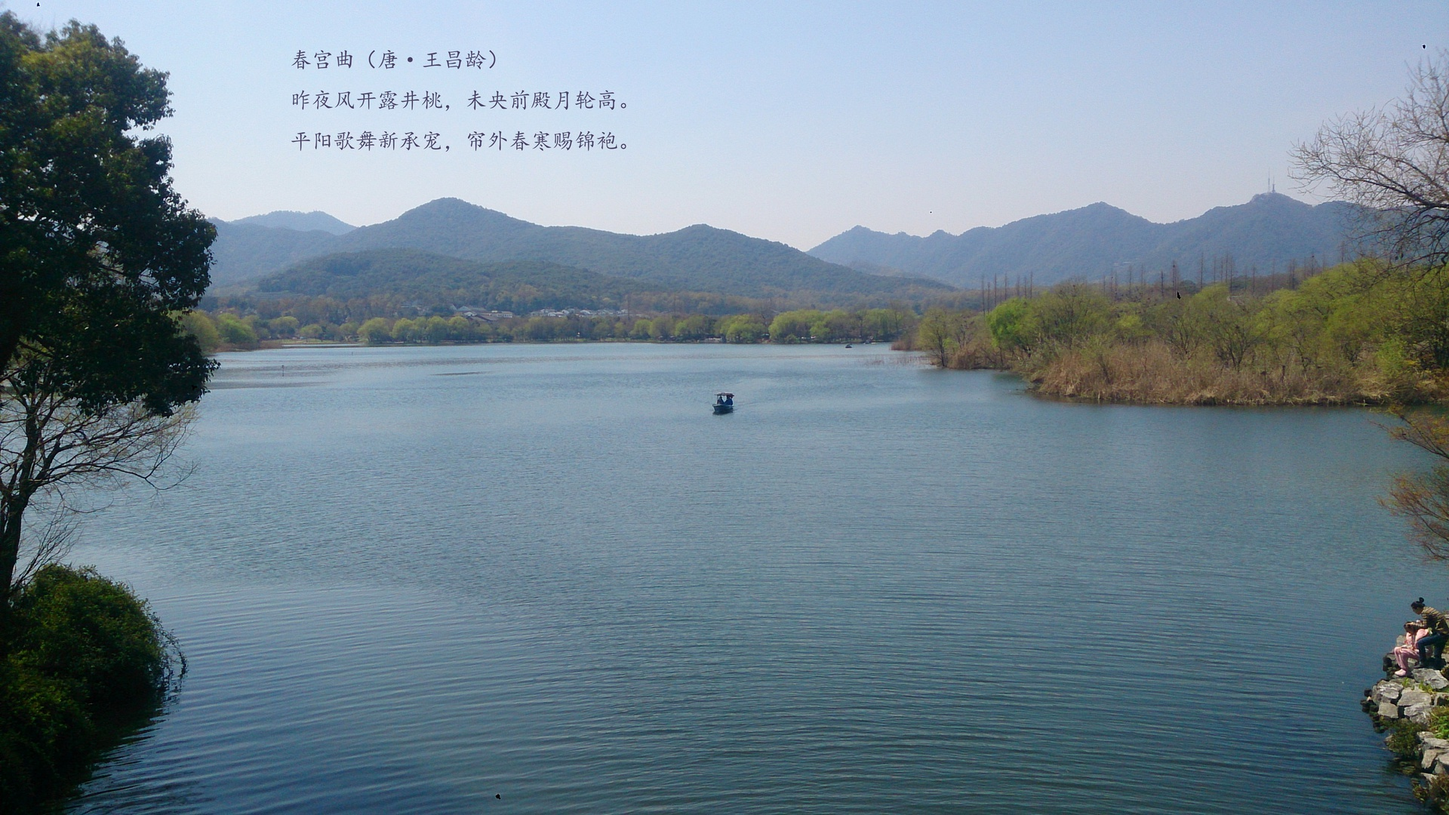
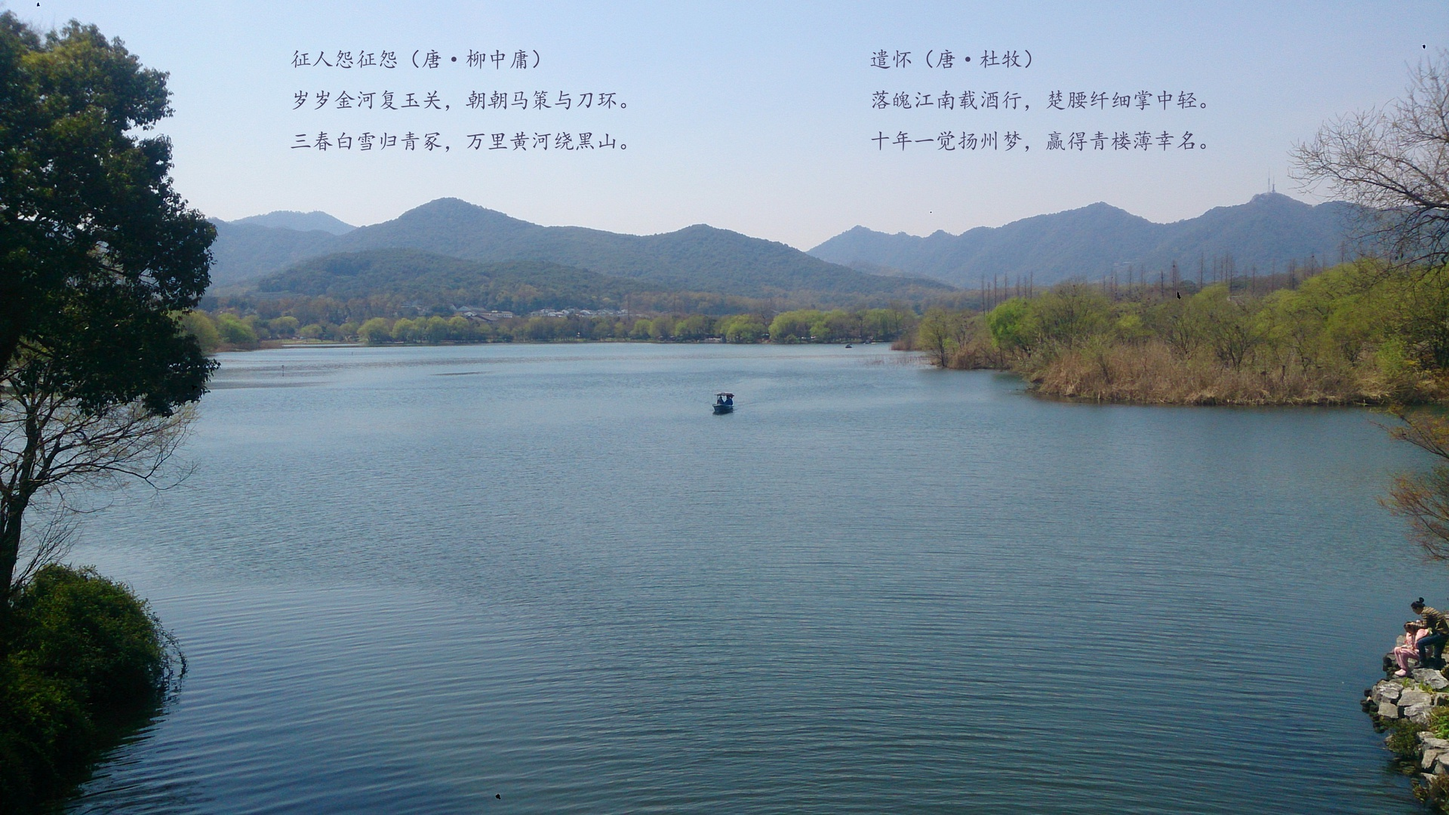
2017-05-02 wallpaper

Changed region(s): [[0.1875, 0.0611, 0.4375, 0.1833], [0.5938, 0.0611, 0.8438, 0.1833], [0.7812, 0.0917, 0.8125, 0.1222]]

diff --git a/en/pages/wallpaper/img_handle.py b/en/pages/wallpaper/img_handle.py
@@ -46,13 +46,15 @@ def gen_text(date=None):
 if __name__ == '__main__':
     # gen text
     text = gen_text()
+    tmrrw = dt.datetime.now() + dt.timedelta(1)
+    tomorrow = gen_text(tmrrw.strftime("%m-%d"))
 
     if not text:
         print("Error: no text!")
         sys.exit(1)
 
     im = Image.open('base.jpg')
-    p_w , p_h = im.size
+    p_w, p_h = im.size
     fontname = os.path.join("fonts", "simkai.ttf")
     # fontsize = 64
     fontsize = 58
@@ -68,6 +70,8 @@ if __name__ == '__main__':
     font = ImageFont.truetype(fontname, fontsize)
     d = ImageDraw.Draw(im)
     d.text((p_w * 0.2, p_h * 0.06), text, fill=text_color, font=font)
+    if tomorrow:
+        d.text((p_w * 0.6, p_h * 0.06), tomorrow, fill=text_color, font=font)
 
     im = im.resize((1920, 1080), Image.ANTIALIAS)
     # im.show()

diff --git a/en/pages/english/grimm/ashputtel.md b/en/pages/english/grimm/ashputtel.md
@@ -1,0 +1,67 @@
+# Ashputtel
+
+The wife of a rich man fell sick; and when she felt that her end drew nigh, she called her only daughter to her bed-side, and said, ‘Always be a good girl, and I will look down from heaven and watch over you.’ Soon afterwards she shut her eyes and died, and was buried in the garden; and the little girl went every day to her grave and wept, and was always good and kind to all about her. And the snow fell and spread a beautiful white covering over the grave; but by the time the spring came, and the sun had melted it away again, her father had married another wife. This new wife had two daughters of her own, that she brought home with her; they were fair in face but foul at heart, and it was now a sorry time for the poor little girl. ‘What does the good-for-nothing want in the parlour?’ said they; ‘they who would eat bread should first earn it; away with the kitchen-maid!’ Then they took away her fine clothes, and gave her an old grey frock to put on, and laughed at her, and turned her into the kitchen.
+
+There she was forced to do hard work; to rise early before daylight, to bring the water, to make the fire, to cook and to wash. Besides that, the sisters plagued her in all sorts of ways, and laughed at her. In the evening when she was tired, she had no bed to lie down on, but was made to lie by the hearth among the ashes; and as this, of course, made her always dusty and dirty, they called her Ashputtel.
+
+It happened once that the father was going to the fair, and asked his wife’s daughters what he should bring them. ‘Fine clothes,’ said the first; ‘Pearls and diamonds,’ cried the second. ‘Now, child,’ said he to his own daughter, ‘what will you have?’ ‘The first twig, dear father, that brushes against your hat when you turn your face to come homewards,’ said she. Then he bought for the first two the fine clothes and pearls and diamonds they had asked for: and on his way home, as he rode through a green copse, a hazel twig brushed against him, and almost pushed off his hat: so he broke it off and brought it away; and when he got home he gave it to his daughter. Then she took it, and went to her mother’s grave and planted it there; and cried so much that it was watered with her tears; and there it grew and became a fine tree. Three times every day she went to it and cried; and soon a little bird came and built its nest upon the tree, and talked with her, and watched over her, and brought her whatever she wished for.
+
+Now it happened that the king of that land held a feast, which was to last three days; and out of those who came to it his son was to choose a bride for himself. Ashputtel’s two sisters were asked to come; so they called her up, and said, ‘Now, comb our hair, brush our shoes, and tie our sashes for us, for we are going to dance at the king’s feast.’ Then she did as she was told; but when all was done she could not help crying, for she thought to herself, she should so have liked to have gone with them to the ball; and at last she begged her mother very hard to let her go. ‘You, Ashputtel!’ said she; ‘you who have nothing to wear, no clothes at all, and who cannot even dance—you want to go to the ball? And when she kept on begging, she said at last, to get rid of her, ‘I will throw this dishful of peas into the ash-heap, and if in two hours’ time you have picked them all out, you shall go to the feast too.’
+
+Then she threw the peas down among the ashes, but the little maiden ran out at the back door into the garden, and cried out:
+
+'Hither, hither, through the sky,  Turtle-doves and linnets, fly!  Blackbird, thrush, and chaffinch gay,  Hither, hither, haste away!  One and all come help me, quick!  Haste ye, haste ye!&mdash;pick, pick, pick!'
+
+Then first came two white doves, flying in at the kitchen window; next came two turtle-doves; and after them came all the little birds under heaven, chirping and fluttering in: and they flew down into the ashes. And the little doves stooped their heads down and set to work, pick, pick, pick; and then the others began to pick, pick, pick: and among them all they soon picked out all the good grain, and put it into a dish but left the ashes. Long before the end of the hour the work was quite done, and all flew out again at the windows.
+
+Then Ashputtel brought the dish to her mother, overjoyed at the thought that now she should go to the ball. But the mother said, ‘No, no! you slut, you have no clothes, and cannot dance; you shall not go.’ And when Ashputtel begged very hard to go, she said, ‘If you can in one hour’s time pick two of those dishes of peas out of the ashes, you shall go too.’ And thus she thought she should at least get rid of her. So she shook two dishes of peas into the ashes.
+
+But the little maiden went out into the garden at the back of the house, and cried out as before:
+
+'Hither, hither, through the sky,  Turtle-doves and linnets, fly!  Blackbird, thrush, and chaffinch gay,  Hither, hither, haste away!  One and all come help me, quick!  Haste ye, haste ye!&mdash;pick, pick, pick!'
+
+Then first came two white doves in at the kitchen window; next came two turtle-doves; and after them came all the little birds under heaven, chirping and hopping about. And they flew down into the ashes; and the little doves put their heads down and set to work, pick, pick, pick; and then the others began pick, pick, pick; and they put all the good grain into the dishes, and left all the ashes. Before half an hour’s time all was done, and out they flew again. And then Ashputtel took the dishes to her mother, rejoicing to think that she should now go to the ball. But her mother said, ‘It is all of no use, you cannot go; you have no clothes, and cannot dance, and you would only put us to shame’: and off she went with her two daughters to the ball.
+
+Now when all were gone, and nobody left at home, Ashputtel went sorrowfully and sat down under the hazel-tree, and cried out:
+
+'Shake, shake, hazel-tree,  Gold and silver over me!'
+
+Then her friend the bird flew out of the tree, and brought a gold and silver dress for her, and slippers of spangled silk; and she put them on, and followed her sisters to the feast. But they did not know her, and thought it must be some strange princess, she looked so fine and beautiful in her rich clothes; and they never once thought of Ashputtel, taking it for granted that she was safe at home in the dirt.
+
+The king’s son soon came up to her, and took her by the hand and danced with her, and no one else: and he never left her hand; but when anyone else came to ask her to dance, he said, ‘This lady is dancing with me.’
+
+Thus they danced till a late hour of the night; and then she wanted to go home: and the king’s son said, ‘I shall go and take care of you to your home’; for he wanted to see where the beautiful maiden lived. But she slipped away from him, unawares, and ran off towards home; and as the prince followed her, she jumped up into the pigeon-house and shut the door. Then he waited till her father came home, and told him that the unknown maiden, who had been at the feast, had hid herself in the pigeon-house. But when they had broken open the door they found no one within; and as they came back into the house, Ashputtel was lying, as she always did, in her dirty frock by the ashes, and her dim little lamp was burning in the chimney. For she had run as quickly as she could through the pigeon-house and on to the hazel-tree, and had there taken off her beautiful clothes, and put them beneath the tree, that the bird might carry them away, and had lain down again amid the ashes in her little grey frock.
+
+The next day when the feast was again held, and her father, mother, and sisters were gone, Ashputtel went to the hazel-tree, and said:
+
+'Shake, shake, hazel-tree,  Gold and silver over me!'
+
+And the bird came and brought a still finer dress than the one she had worn the day before. And when she came in it to the ball, everyone wondered at her beauty: but the king’s son, who was waiting for her, took her by the hand, and danced with her; and when anyone asked her to dance, he said as before, ‘This lady is dancing with me.’
+
+When night came she wanted to go home; and the king’s son followed here as before, that he might see into what house she went: but she sprang away from him all at once into the garden behind her father’s house. In this garden stood a fine large pear-tree full of ripe fruit; and Ashputtel, not knowing where to hide herself, jumped up into it without being seen. Then the king’s son lost sight of her, and could not find out where she was gone, but waited till her father came home, and said to him, ‘The unknown lady who danced with me has slipped away, and I think she must have sprung into the pear-tree.’ The father thought to himself, ‘Can it be Ashputtel?’ So he had an axe brought; and they cut down the tree, but found no one upon it. And when they came back into the kitchen, there lay Ashputtel among the ashes; for she had slipped down on the other side of the tree, and carried her beautiful clothes back to the bird at the hazel-tree, and then put on her little grey frock.
+
+The third day, when her father and mother and sisters were gone, she went again into the garden, and said:
+
+'Shake, shake, hazel-tree,  Gold and silver over me!'
+
+Then her kind friend the bird brought a dress still finer than the former one, and slippers which were all of gold: so that when she came to the feast no one knew what to say, for wonder at her beauty: and the king’s son danced with nobody but her; and when anyone else asked her to dance, he said, ‘This lady is /my/ partner, sir.’
+
+When night came she wanted to go home; and the king’s son would go with her, and said to himself, ‘I will not lose her this time’; but, however, she again slipped away from him, though in such a hurry that she dropped her left golden slipper upon the stairs.
+
+The prince took the shoe, and went the next day to the king his father, and said, ‘I will take for my wife the lady that this golden slipper fits.’ Then both the sisters were overjoyed to hear it; for they had beautiful feet, and had no doubt that they could wear the golden slipper. The eldest went first into the room where the slipper was, and wanted to try it on, and the mother stood by. But her great toe could not go into it, and the shoe was altogether much too small for her. Then the mother gave her a knife, and said, ‘Never mind, cut it off; when you are queen you will not care about toes; you will not want to walk.’ So the silly girl cut off her great toe, and thus squeezed on the shoe, and went to the king’s son. Then he took her for his bride, and set her beside him on his horse, and rode away with her homewards.
+
+But on their way home they had to pass by the hazel-tree that Ashputtel had planted; and on the branch sat a little dove singing:
+
+'Back again! back again! look to the shoe!  The shoe is too small, and not made for you!  Prince! prince! look again for thy bride,  For she's not the true one that sits by thy side.'
+
+Then the prince got down and looked at her foot; and he saw, by the blood that streamed from it, what a trick she had played him. So he turned his horse round, and brought the false bride back to her home, and said, ‘This is not the right bride; let the other sister try and put on the slipper.’ Then she went into the room and got her foot into the shoe, all but the heel, which was too large. But her mother squeezed it in till the blood came, and took her to the king’s son: and he set her as his bride by his side on his horse, and rode away with her.
+
+But when they came to the hazel-tree the little dove sat there still, and sang:
+
+'Back again! back again! look to the shoe!  The shoe is too small, and not made for you!  Prince! prince! look again for thy bride,  For she's not the true one that sits by thy side.'
+
+Then he looked down, and saw that the blood streamed so much from the shoe, that her white stockings were quite red. So he turned his horse and brought her also back again. ‘This is not the true bride,’ said he to the father; ‘have you no other daughters?’ ‘No,’ said he; ‘there is only a little dirty Ashputtel here, the child of my first wife; I am sure she cannot be the bride.’ The prince told him to send her. But the mother said, ‘No, no, she is much too dirty; she will not dare to show herself.’ However, the prince would have her come; and she first washed her face and hands, and then went in and curtsied to him, and he reached her the golden slipper. Then she took her clumsy shoe off her left foot, and put on the golden slipper; and it fitted her as if it had been made for her. And when he drew near and looked at her face he knew her, and said, ‘This is the right bride.’ But the mother and both the sisters were frightened, and turned pale with anger as he took Ashputtel on his horse, and rode away with her. And when they came to the hazel-tree, the white dove sang:
+
+'Home! home! look at the shoe!  Princess! the shoe was made for you!  Prince! prince! take home thy bride,  For she is the true one that sits by thy side!'
+
+And when the dove had done its song, it came flying, and perched upon her right shoulder, and so went home with her.

diff --git a/en/pages/english/grimm/the-white-snake.md b/en/pages/english/grimm/the-white-snake.md
@@ -1,0 +1,27 @@
+# The White Snake
+
+A long time ago there lived a king who was famed for his wisdom through all the land. Nothing was hidden from him, and it seemed as if news of the most secret things was brought to him through the air. But he had a strange custom; every day after dinner, when the table was cleared, and no one else was present, a trusty servant had to bring him one more dish. It was covered, however, and even the servant did not know what was in it, neither did anyone know, for the king never took off the cover to eat of it until he was quite alone.
+
+This had gone on for a long time, when one day the servant, who took away the dish, was overcome with such curiosity that he could not help carrying the dish into his room. When he had carefully locked the door, he lifted up the cover, and saw a white snake lying on the dish. But when he saw it he could not deny himself the pleasure of tasting it, so he cut of a little bit and put it into his mouth. No sooner had it touched his tongue than he heard a strange whispering of little voices outside his window. He went and listened, and then noticed that it was the sparrows who were chattering together, and telling one another of all kinds of things which they had seen in the fields and woods. Eating the snake had given him power of understanding the language of animals.
+
+Now it so happened that on this very day the queen lost her most beautiful ring, and suspicion of having stolen it fell upon this trusty servant, who was allowed to go everywhere. The king ordered the man to be brought before him, and threatened with angry words that unless he could before the morrow point out the thief, he himself should be looked upon as guilty and executed. In vain he declared his innocence; he was dismissed with no better answer.
+
+In his trouble and fear he went down into the courtyard and took thought how to help himself out of his trouble. Now some ducks were sitting together quietly by a brook and taking their rest; and, whilst they were making their feathers smooth with their bills, they were having a confidential conversation together. The servant stood by and listened. They were telling one another of all the places where they had been waddling about all the morning, and what good food they had found; and one said in a pitiful tone: ‘Something lies heavy on my stomach; as I was eating in haste I swallowed a ring which lay under the queen’s window.’ The servant at once seized her by the neck, carried her to the kitchen, and said to the cook: ‘Here is a fine duck; pray, kill her.’ ‘Yes,’ said the cook, and weighed her in his hand; ‘she has spared no trouble to fatten herself, and has been waiting to be roasted long enough.’ So he cut off her head, and as she was being dressed for the spit, the queen’s ring was found inside her.
+
+The servant could now easily prove his innocence; and the king, to make amends for the wrong, allowed him to ask a favour, and promised him the best place in the court that he could wish for. The servant refused everything, and only asked for a horse and some money for travelling, as he had a mind to see the world and go about a little. When his request was granted he set out on his way, and one day came to a pond, where he saw three fishes caught in the reeds and gasping for water. Now, though it is said that fishes are dumb, he heard them lamenting that they must perish so miserably, and, as he had a kind heart, he got off his horse and put the three prisoners back into the water. They leapt with delight, put out their heads, and cried to him: ‘We will remember you and repay you for saving us!’
+
+He rode on, and after a while it seemed to him that he heard a voice in the sand at his feet. He listened, and heard an ant-king complain: ‘Why cannot folks, with their clumsy beasts, keep off our bodies? That stupid horse, with his heavy hoofs, has been treading down my people without mercy!’ So he turned on to a side path and the ant-king cried out to him: ‘We will remember you—one good turn deserves another!’
+
+The path led him into a wood, and there he saw two old ravens standing by their nest, and throwing out their young ones. ‘Out with you, you idle, good-for-nothing creatures!’ cried they; ‘we cannot find food for you any longer; you are big enough, and can provide for yourselves.’ But the poor young ravens lay upon the ground, flapping their wings, and crying: ‘Oh, what helpless chicks we are! We must shift for ourselves, and yet we cannot fly! What can we do, but lie here and starve?’ So the good young fellow alighted and killed his horse with his sword, and gave it to them for food. Then they came hopping up to it, satisfied their hunger, and cried: ‘We will remember you—one good turn deserves another!’
+
+And now he had to use his own legs, and when he had walked a long way, he came to a large city. There was a great noise and crowd in the streets, and a man rode up on horseback, crying aloud: ‘The king’s daughter wants a husband; but whoever seeks her hand must perform a hard task, and if he does not succeed he will forfeit his life.’ Many had already made the attempt, but in vain; nevertheless when the youth saw the king’s daughter he was so overcome by her great beauty that he forgot all danger, went before the king, and declared himself a suitor.
+
+So he was led out to the sea, and a gold ring was thrown into it, before his eyes; then the king ordered him to fetch this ring up from the bottom of the sea, and added: ‘If you come up again without it you will be thrown in again and again until you perish amid the waves.’ All the people grieved for the handsome youth; then they went away, leaving him alone by the sea.
+
+He stood on the shore and considered what he should do, when suddenly he saw three fishes come swimming towards him, and they were the very fishes whose lives he had saved. The one in the middle held a mussel in its mouth, which it laid on the shore at the youth’s feet, and when he had taken it up and opened it, there lay the gold ring in the shell. Full of joy he took it to the king and expected that he would grant him the promised reward.
+
+But when the proud princess perceived that he was not her equal in birth, she scorned him, and required him first to perform another task. She went down into the garden and strewed with her own hands ten sacksful of millet-seed on the grass; then she said: ‘Tomorrow morning before sunrise these must be picked up, and not a single grain be wanting.’
+
+The youth sat down in the garden and considered how it might be possible to perform this task, but he could think of nothing, and there he sat sorrowfully awaiting the break of day, when he should be led to death. But as soon as the first rays of the sun shone into the garden he saw all the ten sacks standing side by side, quite full, and not a single grain was missing. The ant-king had come in the night with thousands and thousands of ants, and the grateful creatures had by great industry picked up all the millet-seed and gathered them into the sacks.
+
+Presently the king’s daughter herself came down into the garden, and was amazed to see that the young man had done the task she had given him. But she could not yet conquer her proud heart, and said: ‘Although he has performed both the tasks, he shall not be my husband until he had brought me an apple from the Tree of Life.’ The youth did not know where the Tree of Life stood, but he set out, and would have gone on for ever, as long as his legs would carry him, though he had no hope of finding it. After he had wandered through three kingdoms, he came one evening to a wood, and lay down under a tree to sleep. But he heard a rustling in the branches, and a golden apple fell into his hand. At the same time three ravens flew down to him, perched themselves upon his knee, and said: ‘We are the three young ravens whom you saved from starving; when we had grown big, and heard that you were seeking the Golden Apple, we flew over the sea to the end of the world, where the Tree of Life stands, and have brought you the apple.’ The youth, full of joy, set out homewards, and took the Golden Apple to the king’s beautiful daughter, who had now no more excuses left to make. They cut the Apple of Life in two and ate it together; and then her heart became full of love for him, and they lived in undisturbed happiness to a great age.

diff --git a/en/pages/python_lib/builtin-fun.md b/en/pages/python_lib/builtin-fun.md
@@ -381,7 +381,55 @@ Take two (non complex) numbers as arguments and return a pair of numbers consist
 
 ## str()
 
+```python
+class str(object='')
+class str(object=b'', encoding='utf-8', errors='strict')
+```
+
+常用的转字符串函数，返回字符串`str`类型。
+
+例子：
+
+```python
+str(1)  # '1'
+str([1, 2])  # '[1, 2]'
+```
+
+Return a [`str`](https://docs.python.org/3/library/stdtypes.html#str) version of *object*. See [`str()`](https://docs.python.org/3/library/stdtypes.html#str) for details.
+
+`str` is the built-in string [class](https://docs.python.org/3/glossary.html#term-class). For general information about strings, see [Text Sequence Type — str](https://docs.python.org/3/library/stdtypes.html#textseq).
+
 ## int()
+
+```python
+class int(x=0)
+class int(x, base=10)
+```
+
+转整型。传入为字符串时，可以指定转换进制。如果传入为浮点数，那么相当于把小数部分去除，只保留整数部分，也就是向0靠拢。
+
+例子：
+
+```python
+int('101')  # 101，默认10进制
+int('101', 2)  # 5，2进制
+int('101', 8)  # 65，8进制
+
+int('101', 0)  # 101
+# int('0101', 0)  # invalid literal，0x，0o，0b
+int('0x101', 0)  # 257，0x指定为16进制，base=0
+int('0o101', 0)  # 65，8进制
+int('0b101', 0)  # 5，2进制
+
+int(1.2)  # 1
+int(-1.2)  # -1
+```
+
+Return an integer object constructed from a number or string *x*, or return `0` if no arguments are given. If *x* is a number, return [`x.__int__()`](https://docs.python.org/3/reference/datamodel.html#object.__int__). For floating point numbers, this truncates towards zero.
+
+If *x* is not a number or if *base* is given, then *x* must be a string, [`bytes`](https://docs.python.org/3/library/functions.html#bytes), or [`bytearray`](https://docs.python.org/3/library/functions.html#bytearray) instance representing an [integer literal](https://docs.python.org/3/reference/lexical_analysis.html#integers) in radix *base*. Optionally, the literal can be preceded by `+` or `-` (with no space in between) and surrounded by whitespace. A base-n literal consists of the digits 0 to n-1, with `a` to `z` (or `A` to `Z`) having values 10 to 35. The default *base* is 10. The allowed values are 0 and 2–36. Base-2, -8, and -16 literals can be optionally prefixed with `0b`/`0B`, `0o`/`0O`, or `0x`/`0X`, as with integer literals in code. Base 0 means to interpret exactly as a code literal, so that the actual base is 2, 8, 10, or 16, and so that `int('010', 0)` is not legal, while `int('010')` is, as well as `int('010', 8)`.
+
+The integer type is described in [Numeric Types — int, float, complex](https://docs.python.org/3/library/stdtypes.html#typesnumeric).
 
 ## float()
 

diff --git a/en/pages/research/conference/index.md b/en/pages/research/conference/index.md
@@ -66,11 +66,11 @@
 
 ## MSST
 
-| 1                              | 2                              | 3                              | 4                              | 5                              |
-| ------------------------------ | ------------------------------ | ------------------------------ | ------------------------------ | ------------------------------ |
-| [MSST_2016](MSST/MSST_2016.md) |                                |                                |                                |                                |
-| [MSST_2011](MSST/MSST_2011.md) | [MSST_2012](MSST/MSST_2012.md) | [MSST_2013](MSST/MSST_2013.md) | [MSST_2014](MSST/MSST_2014.md) | [MSST_2015](MSST/MSST_2015.md) |
-|                                |                                |                                | [MSST_2009](MSST/MSST_2009.md) | [MSST_2010](MSST/MSST_2010.md) |
+| 1                                 | 2                              | 3                              | 4                              | 5                                 |
+| --------------------------------- | ------------------------------ | ------------------------------ | ------------------------------ | --------------------------------- |
+| [MSST_2016](MSST/MSST_2016.md), N |                                |                                |                                |                                   |
+| [MSST_2011](MSST/MSST_2011.md)    | [MSST_2012](MSST/MSST_2012.md) | [MSST_2013](MSST/MSST_2013.md) | [MSST_2014](MSST/MSST_2014.md) | [MSST_2015](MSST/MSST_2015.md), N |
+|                                   |                                |                                | [MSST_2009](MSST/MSST_2009.md) | [MSST_2010](MSST/MSST_2010.md)    |
 
 ## VLDB
 

diff --git a/en/pages/english/grimm/index.md b/en/pages/english/grimm/index.md
@@ -1,3 +1,9 @@
+# 格林童话选集
+
+*Grimm's Fairy Tales* by *Grimm Brothers*，[有声书链接](http://etc.usf.edu/lit2go/175/grimms-fairy-tales/)
+
+------
+
 [Little Red Cap](little-red-cap.md)，小红帽
 
 [Tom Thumb](tom-thumb.md)，大拇指汤姆
@@ -6,3 +12,6 @@
 
 [The Old Man and His Grandson](the-old-man-and-his-grandson.md)
 
+[Ashputtel](ashputtel.md)，灰姑娘
+
+[The White Snake](the-white-snake.md)

diff --git a/en/pages/国学/唐诗三百首/寄人_张泌.md b/en/pages/国学/唐诗三百首/寄人_张泌.md
@@ -4,7 +4,7 @@
 
 作者：[张泌](http://so.gushiwen.org/author_688.aspx)
 
-<p>别梦依依到谢家，小廊回合曲阑斜。
+别梦依依到谢家，小廊回合曲阑斜。
 
-多情只有春庭月，犹为离人照落花。</p>
+多情只有春庭月，犹为离人照落花。
 

diff --git a/en/pages/国学/selected/定风波-苏轼.md b/en/pages/国学/selected/定风波-苏轼.md
@@ -1,0 +1,5 @@
+莫听穿林打叶声，何妨吟啸且徐行。竹杖芒鞋轻胜马，谁怕？一蓑烟雨任平生。 
+
+料峭春风吹酒醒，微冷，山头斜照却相迎。回首向来萧瑟处，归去，也无风雨也无晴。 
+
+——〔宋〕苏轼《定风波》

diff --git a/en/pages/国学/index.md b/en/pages/国学/index.md
@@ -1,5 +1,7 @@
 [典故](典故/index.md)
 
+[文选](selected/index.md)
+
 [大学·曾参](大学.md)
 
 [论语·孔子](论语.md)
